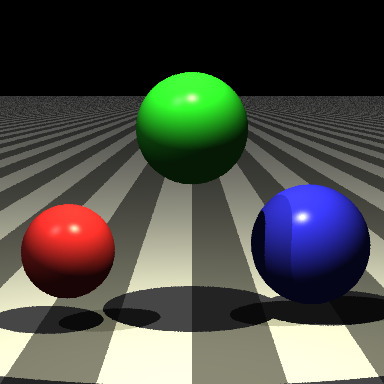
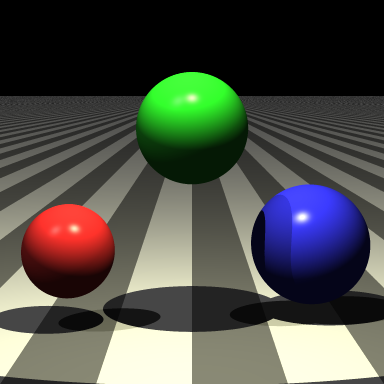
Fixed AA jitter

diff --git a/camera.h b/camera.h
@@ -22,7 +22,7 @@
 #include <ctime>   // for seeding rand()
 
 
-#define DEFAULT_AA_JITTER 0.8
+#define AA_JITTER_REDUCTION 3
 
 // camera always looks at center of z=0 plane
 // where the right up corner is (1,1,0) and bottom left is (-1,-1,0)
@@ -58,45 +58,46 @@ public:
         // Calculate from exact center - for antialiasing to work without shifting
         auto pixel_upper_left = screen_origin;
 
-        // Prepare jitter multiplication
-        double jitter_mult = DEFAULT_AA_JITTER;
-        if(aa_samples == 1) jitter_mult = 0;
-
         // Render
         for (int j = 0; j < height; j++) {
             std::cout << "\rScanlines remaining: " << (height - j) << ' ' << std::flush;
             for (int i = 0; i < width; i++) {
                 color pixel_color(0, 0, 0);
+                int samples_per_axis = aa_samples;
+                double inv_samples = 1.0 / (samples_per_axis * samples_per_axis);
 
-                for (int sample = 0; sample < aa_samples; ++sample) {
-                    // Jittered sample within pixel
-                    double jitter_x = (((double) std::rand() + 0.5) / (RAND_MAX + 1.0)) * jitter_mult;
-                    double jitter_y = (((double) std::rand() + 0.5) / (RAND_MAX + 1.0)) * jitter_mult;
+                for (int sy = 0; sy < samples_per_axis; ++sy) {
+                    for (int sx = 0; sx < samples_per_axis; ++sx) {
+                        double jitter_x = ((double) std::rand() / RAND_MAX);
+                        double jitter_y = ((double) std::rand() / RAND_MAX);
 
-                    double offset_u = (i + jitter_x);
-                    double offset_v = (j + jitter_y);
+                        // Proper per-grid jittered sample
+                        double offset_u = (i + (sx + jitter_x / AA_JITTER_REDUCTION) / samples_per_axis);
+                        double offset_v = (j + (sy + jitter_y / AA_JITTER_REDUCTION) / samples_per_axis);
 
-                    auto pixel_sample = pixel_upper_left 
-                        + offset_u * pixel_delta_u 
-                        + offset_v * pixel_delta_v;
+                        auto pixel_sample = pixel_upper_left 
+                            + offset_u * pixel_delta_u 
+                            + offset_v * pixel_delta_v;
 
-                    auto ray_direction = pixel_sample - orig;
-                    ray r(orig, ray_direction);
-                    auto intersection_hit = get_min_intersection(r, scene, INFINITY);
-                    pixel_color += shade(r, intersection_hit, scene, lights, ambient);
+                        auto ray_direction = pixel_sample - orig;
+                        ray r(orig, ray_direction);
+                        auto intersection_hit = get_min_intersection(r, scene, INFINITY);
+                        pixel_color += shade(r, intersection_hit, scene, lights, ambient);
+                    }
                 }
+                pixel_color *= inv_samples;
+                // Normalize
+                pixel_color = clamp(pixel_color, 0.0, 1.0);
 
-                pixel_color *= (1.0 / aa_samples);
-
-                // Gamma correction (if gamma ≠ 1)
-                double gamma = gamma_value;
-                if (gamma != 1.0) {
+                // Gamma correction
+                double gamma = 1.0;
+                // correct if power != 1
+                if(gamma != 1.0)
                     pixel_color = color(
-                        pow(pixel_color.x(), gamma),
-                        pow(pixel_color.y(), gamma),
-                        pow(pixel_color.z(), gamma)
+                        pow(pixel_color.x(),gamma),
+                        pow(pixel_color.y(),gamma),
+                        pow(pixel_color.z(),gamma)
                     );
-                }
 
                 write_color(image, (j * width + i) * 3, pixel_color);
             }
